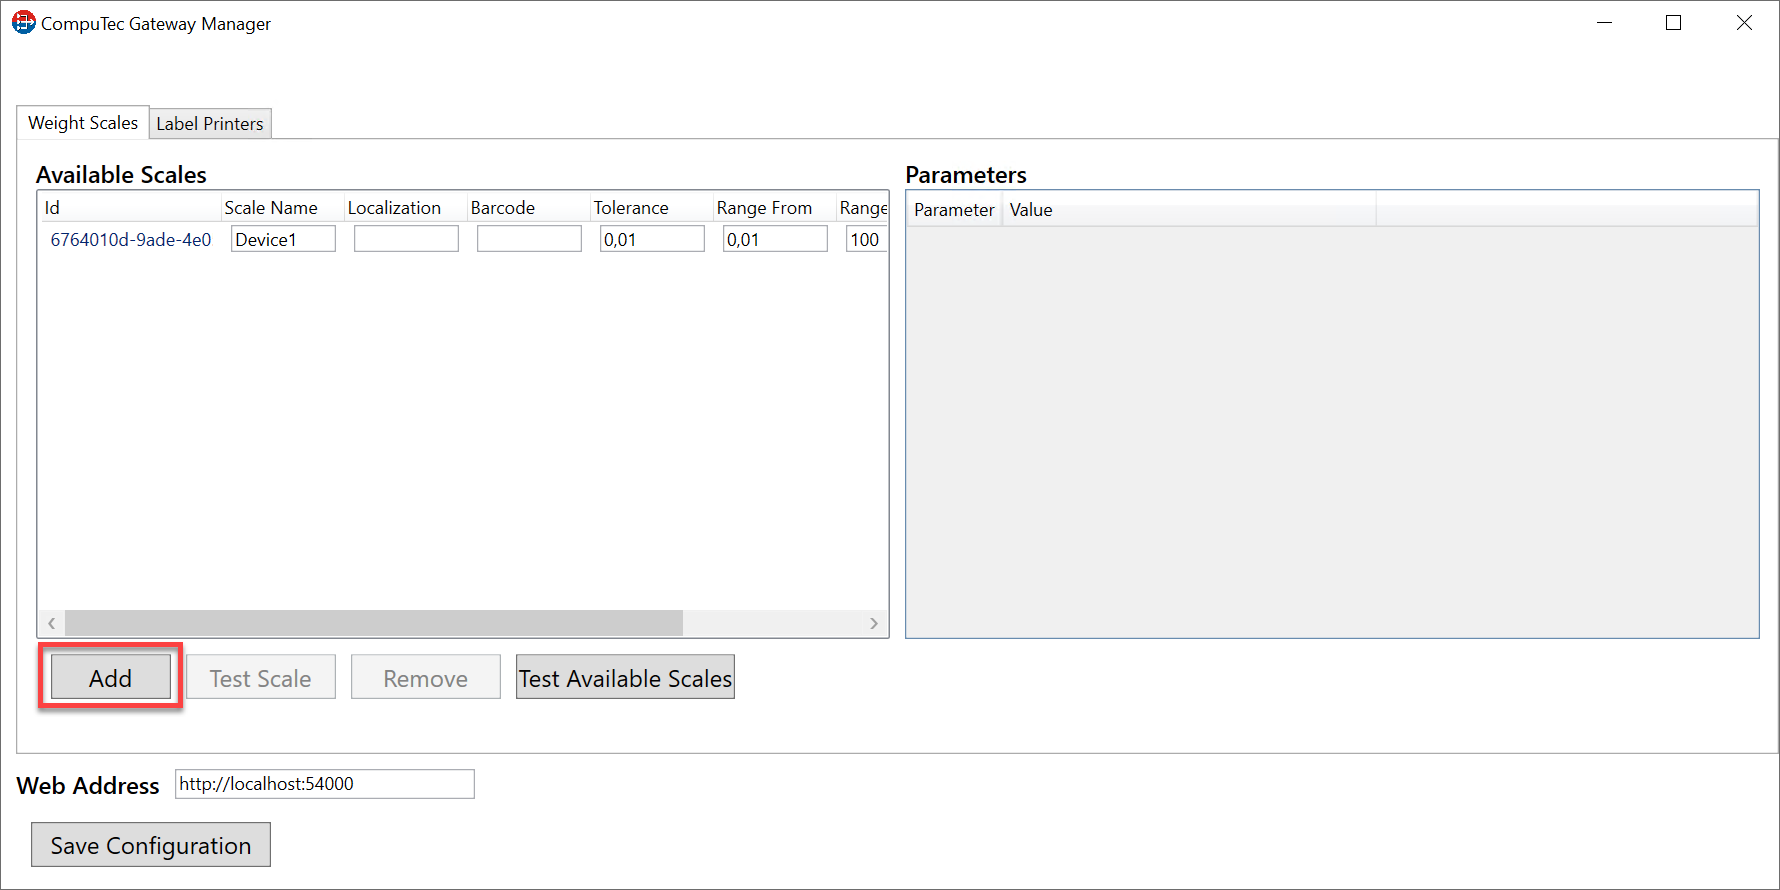
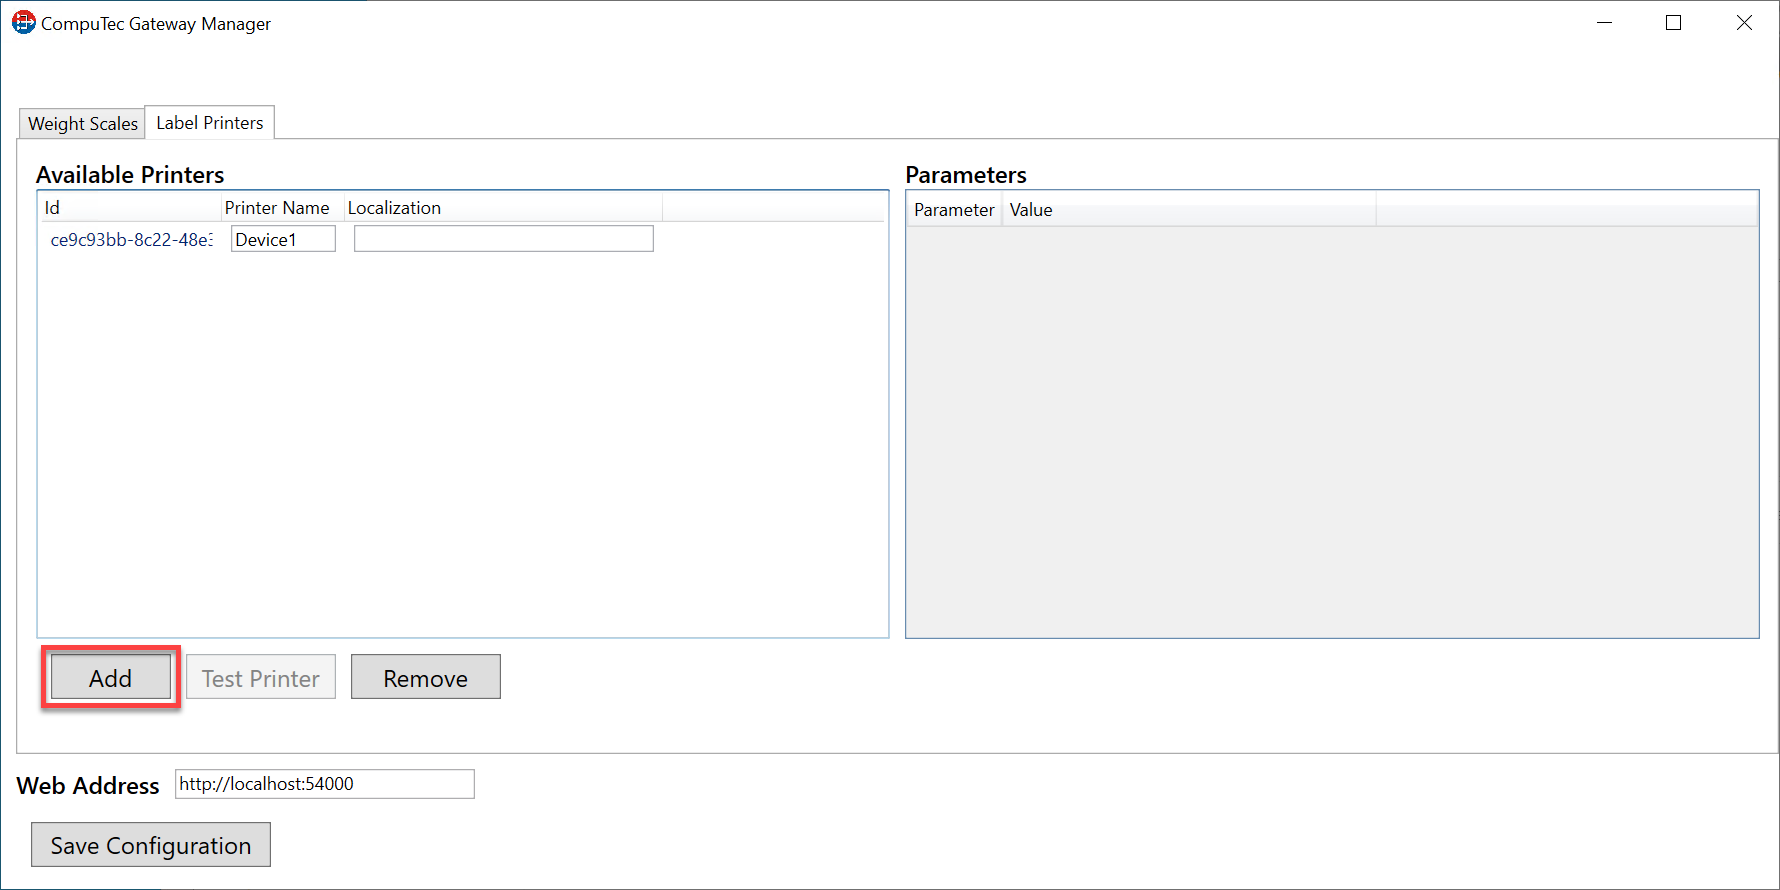
update

diff --git a/docs/wms/administrator-guide/computec-gateway-service/label-printer-configuration.md b/docs/wms/administrator-guide/computec-gateway-service/label-printer-configuration.md
@@ -1,5 +1,5 @@
 ---
-sidebar_position: 3
+sidebar_position: 2
 ---
 
 # Label Printers Configuration
@@ -9,7 +9,7 @@ This document provides a step-by-step guide on configuring the CompuTec WeightSc
 ---
 
 :::warning
-    For the program to work correctly, configure your firewall to make the 8080 port available.
+    For the program to work correctly, configure your firewall to make the 54001 port available.
 :::
 
 :::note
@@ -38,25 +38,27 @@ This document provides a step-by-step guide on configuring the CompuTec WeightSc
     ![Numbers](./media/lab4.webp)
 6. Now click on the printer identifier. As you can see, the setup window opened in the Parameters tab.
 
-    ![Right-click](./media/lab5.webp)
-7. Expand the driver tab to select an available device. There are four possibilities (drivers) to connect the printers:
+    ![Right-click](./media/label-printers-configuration/printer-identifier.png)
+7. Expand the driver tab to select an available device. There are five possibilities (drivers) to connect the printers:
 
-    ![Parameters](./media/lab6.webp)
+    ![Parameters](./media/label-printers-configuration//drivers.png)
 
     1. BixolonDriver - We can set the Physical Name of the printer.
+
+        ![Bixolon Driver](./media/label-printers-configuration/bixolon-driver.png)
     2. CrystalDriver - We can set up the Physical Name of the printer and whether it should be saved as a PDF file.
 
-        ![Physical Name](./media/lab7.webp)
+        ![Crystal Driver](./media/label-printers-configuration/crystal-driver.png)
 
-        ![Save as PDF](./media/lab8.webp)
     3. MockDriver - We can set a Physical Name and a Mock Parameter.
 
-        ![Parameters](./media/lab9.webp)
-    4. ZebraDriver - We can set up the Physical Name and CodePage format.
+        ![Mock Driver](./media/label-printers-configuration/mock-driver.png)
+    4. PdfDriver - We can set up the Physical Name of the printer.
 
-8. Now, we can save the configuration and make a test of the printer. Remember to put the Web Address. (We must put the IP address or Machine name where the Service Layer was installed).
-        ![Parameters](./media/lab10.webp)
+        ![PDF Driver](./media/label-printers-configuration/pdf-driver.png)
+    5. ZebraDriver - We can set up the Physical Name and CodePage format.
 
-    We can change/set the Port number in C:\Program Files\CompuTec\CompuTec Service Layer\CompuTec.ServiceLayer.Host.WindowsService.exe
+        ![Zebra Driver](./media/label-printers-configuration/zebra-driver.png)
+8. Now, we can save the configuration and make a test of the printer. Remember to put the web address (We must put the IP address or Machine name where AppEngine was installed).
 
-    ![Parameters](./media/lab11.webp)
+    ![Save Configuration](./media/label-printers-configuration/save-configuration.png)

diff --git a/docs/wms/administrator-guide/fifo-fefo-fmfo-queues.md b/docs/wms/administrator-guide/fifo-fefo-fmfo-queues.md
@@ -16,11 +16,13 @@ Here, you can find a description of FIFO/FEFO/FMFO queues based on Batches, Seri
 
   - if it is not installed, you can choose the type in Custom Configuration → Manager → Enable Batch Management Manager → Set Default Settings
 
-- FEFO – the queue is based on 'ExpDate' and (if ProcessForce is installed) U_ExpiryTime.
+- FEFO - the queue is based on 'ExpDate' and (if ProcessForce is installed) U_ExpiryTime.
 
-- FMFO – the queue is based on 'MnfDate'
+- FMFO - the queue is based on 'MnfDate'
 
-- FIFO – "First In" is based on 'InDate'
+- FIFO - "First In" is based on 'InDate'
+
+  ![FIFO FMFO FIFO Queues](./media/fifi-fefo-fmfo.png)
 
 ## Serial Numbers managed Items, Items managed neither by Batches nor Serial Numbers
 

diff --git a/docs/wms/administrator-guide/catch-weight.md b/docs/wms/administrator-guide/catch-weight.md
@@ -50,7 +50,7 @@ The option is activated per Item. Go to Item Master Data, find the required Item
 
 - Open User-Defined Fields (Ctrl+Shift+U) and set the Catch Weight Enabled field value to Yes.
 
-![Item Master data Settings](./media/catch-weight/item-master-data-settings.png)
+    ![Item Master data Settings](./media/catch-weight/item-master-data-settings.png)
 
 The option can be used in the following transactions:
 

diff --git a/docs/wms/administrator-guide/computec-gateway-service/computec-gateway-service-installation.md b/docs/wms/administrator-guide/computec-gateway-service/computec-gateway-service-installation.md
@@ -9,7 +9,7 @@ sidebar_position: 1
 :::
 
 :::warning
-    Important! For the program to work properly, configure your firewall to make the 8080 port available.
+    Important! For the program to work properly, configure your firewall to make the 54001 port available.
 :::
 
 1. To install CompuTec Gateway Service, download and run its installation file - you can find it here

diff --git a/docs/wms/administrator-guide/empty-serial-numbers.md b/docs/wms/administrator-guide/empty-serial-numbers.md
@@ -15,13 +15,9 @@ Here, you can find a description of managing Empty Serial Numbers Items through 
 ## Transactions supported in CompuTec WMS
 
 - GRPO
-
 - Delivery
-
 - Pick and Pack
-
 - Stock Transfer (Transfer Request)
-
 - Stock Counting (planned to be supported).
 
 ### GRPO from Purchase Order

diff --git a/docs/wms/administrator-guide/computec-gateway-service/weight-scale-configuration-manager.md b/docs/wms/administrator-guide/computec-gateway-service/weight-scale-configuration-manager.md
@@ -1,8 +1,8 @@
 ---
-sidebar_position: 7
+sidebar_position: 3
 ---
 
-# Weight Scale Configuration Manager
+# Weight Scale Configuration
 
 This document provides a step-by-step guide on how to configure CompuTec WeightScale manager.
 

diff --git a/docs/wms/administrator-guide/computec-gateway-service/integration-wms-with-weight-scale-service.md b/docs/wms/administrator-guide/computec-gateway-service/integration-wms-with-weight-scale-service.md
@@ -1,5 +1,5 @@
 ---
-sidebar_position: 2
+sidebar_position: 4
 ---
 
 # Integration WMS with Weight Scale Service

diff --git a/docs/wms/administrator-guide/computec-gateway-service/showing-the-operation-in-wms.md b/docs/wms/administrator-guide/computec-gateway-service/showing-the-operation-in-wms.md
@@ -1,5 +1,5 @@
 ---
-sidebar_position: 6
+sidebar_position: 5
 ---
 
 # Showing the Operation in WMS
